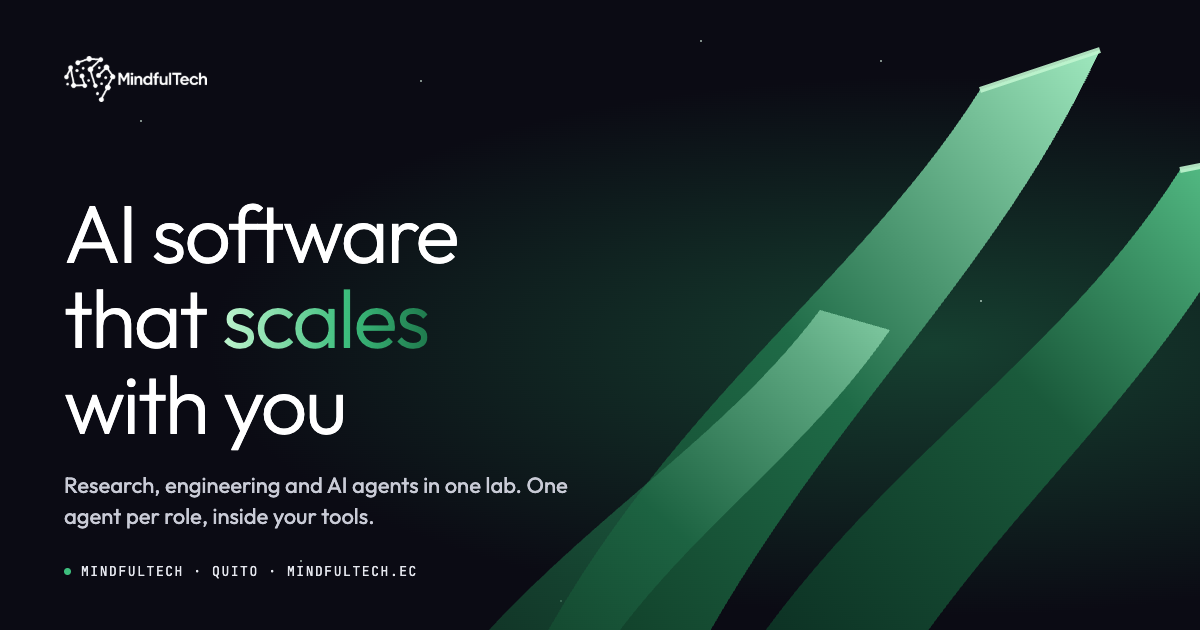
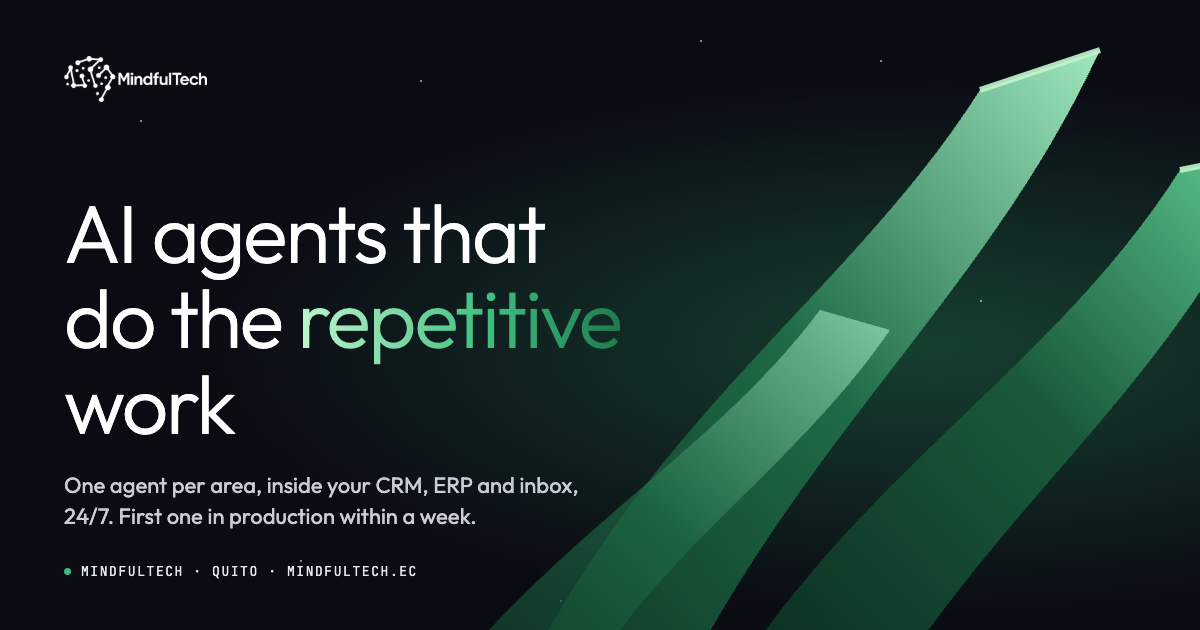
Hero message made concrete: AI agents that do the repetitive work, one agent per area in your CRM/ERP/inbox, first one live within a week, the US clinic billing example; OG title, description and image match

Changed region(s): [[0.0308, 0.3016, 0.5242, 0.573], [0.0308, 0.754, 0.4933, 0.8444], [0.0925, 0.6032, 0.3083, 0.7238]]

diff --git a/components/concepts/Cerebrium.tsx b/components/concepts/Cerebrium.tsx
@@ -150,10 +150,10 @@ export function Cerebrium() {
         </div>
         <div className={s.heroIn} style={{ opacity: cine > 0.02 ? 0 : 1, transition: "opacity 0.25s" }}>
           <div>
-            <h1 className={s.h1}>{es ? <><Split text="Software con IA" /><br /><Split text="que" delay={240} /> <span className={s.grad}><Split text="escala" delay={300} /></span><br /><Split text="contigo" delay={420} /></> : <><Split text="AI software" /><br /><Split text="that" delay={240} /> <span className={s.grad}><Split text="scales" delay={300} /></span><br /><Split text="with you" delay={420} /></>}</h1>
+            <h1 className={s.h1}>{es ? <><Split text="Agentes de IA que" /><br /><Split text="hacen el" delay={240} /> <span className={s.grad}><Split text="trabajo" delay={300} /></span><br /><Split text="repetitivo" delay={420} /></> : <><Split text="AI agents that" /><br /><Split text="do the" delay={240} /> <span className={s.grad}><Split text="repetitive" delay={300} /></span><br /><Split text="work" delay={420} /></>}</h1>
           </div>
           <div className={s.heroSide}>
-            <p>{es ? "Investigación, ingeniería y agentes de IA en un solo laboratorio. Un agente por rol, dentro de tus herramientas, con una persona que firma donde importa." : "Research, engineering and AI agents in one lab. One agent per role, inside your tools, with a person signing off where it matters."}</p>
+            <p>{es ? "Facturación, soporte, ventas y operaciones: un agente por área, conectado a tu CRM, ERP y correo, trabajando 24/7. En una semana el primero está en producción. Hoy uno factura para una clínica en EE. UU. sin un humano en el ciclo, salvo para firmar." : "Billing, support, sales and operations: one agent per area, plugged into your CRM, ERP and inbox, working 24/7. The first one is in production within a week. Today one runs billing for a US clinic with no human in the loop except to sign off."}</p>
             <div className={s.ctas}><button type="button" onClick={() => openContact()} className={`${s.btn} ${s.btnAcc}`}><Scramble text={es ? "Habla con nosotros" : "Talk to us"} /></button><Link href="/office-demo" className={`${s.btn} ${s.btnSolid}`}><Scramble text="AI Management Office" /></Link></div>
           </div>
         </div>

diff --git a/app/layout.tsx b/app/layout.tsx
@@ -28,9 +28,9 @@ const jbmono = JetBrains_Mono({ subsets: ["latin"], weight: ["400", "500"], vari
 // English, like the page it describes: the site opens in English (see
 // LanguageProvider) and the document title should match what loads.
 const SITE_TITLE = "MindfulTech";
-const OG_TITLE = "MindfulTech: AI software that scales with you";
+const OG_TITLE = "MindfulTech: AI agents that do the repetitive work";
 const SITE_DESC =
-  "Research, engineering and AI agents in one lab. One agent per role, inside your tools, with a person signing off where it matters. Quito, Ecuador.";
+  "One AI agent per area (billing, support, sales, operations), plugged into your CRM, ERP and inbox, working 24/7. First agent in production within a week. Quito, Ecuador.";
 
 export const metadata: Metadata = {
   // absolute base for og:url / og:image on the static export
@@ -48,13 +48,13 @@ export const metadata: Metadata = {
     // tarjeta social: el logo sobre el fondo claro del sitio, 1200×630, el
     // formato que WhatsApp, LinkedIn y X muestran completo. Generada con
     // Pillow a partir de la geometría de components/Logo.tsx y Outfit 600.
-    images: [{ url: "/brand/og.png?v=3", width: 1200, height: 630, alt: "MindfulTech" }],
+    images: [{ url: "/brand/og.png?v=4", width: 1200, height: 630, alt: "MindfulTech" }],
   },
   twitter: {
     card: "summary_large_image",
     title: OG_TITLE,
     description: SITE_DESC,
-    images: ["/brand/og.png?v=3"],
+    images: ["/brand/og.png?v=4"],
   },
 };
 
